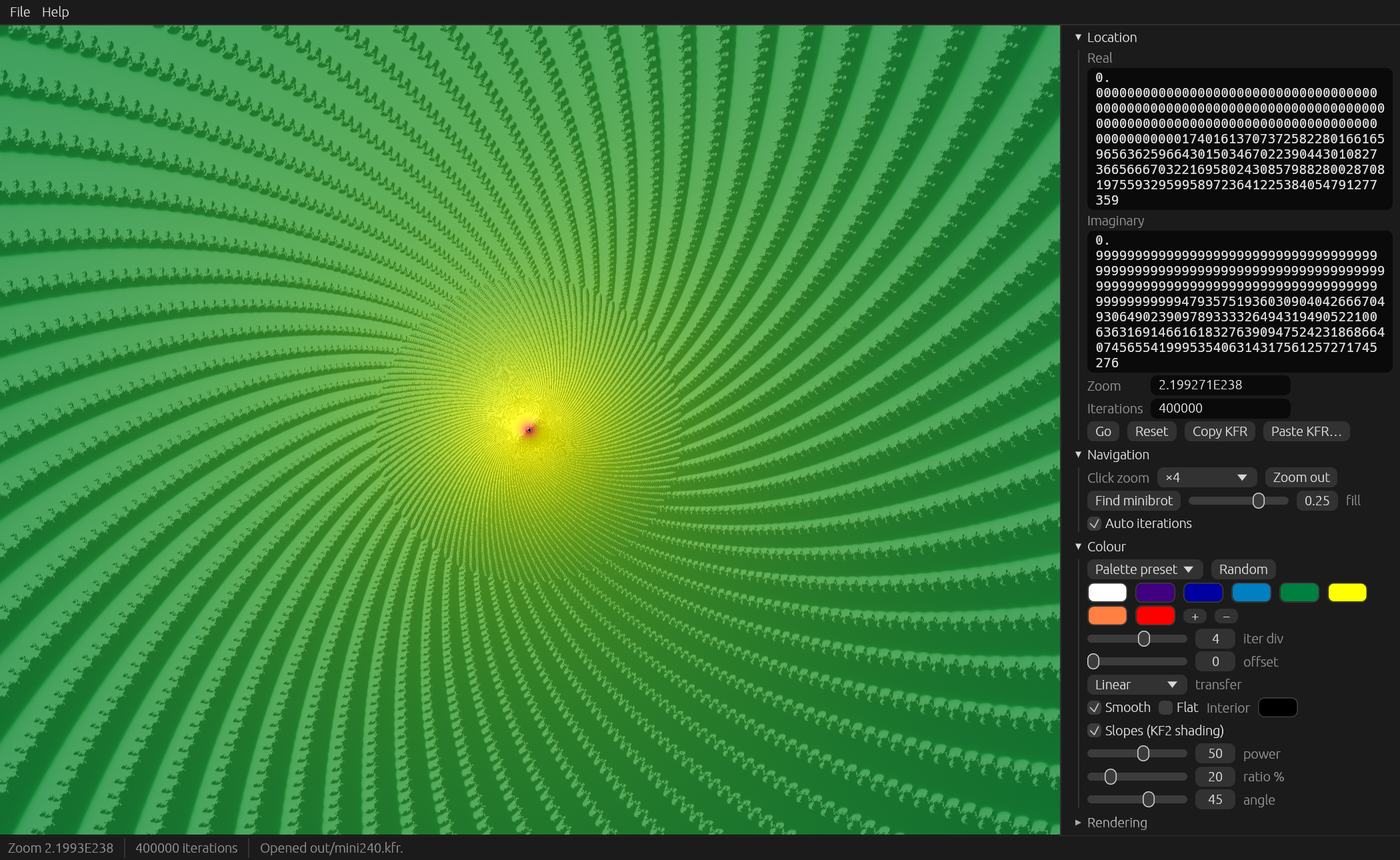
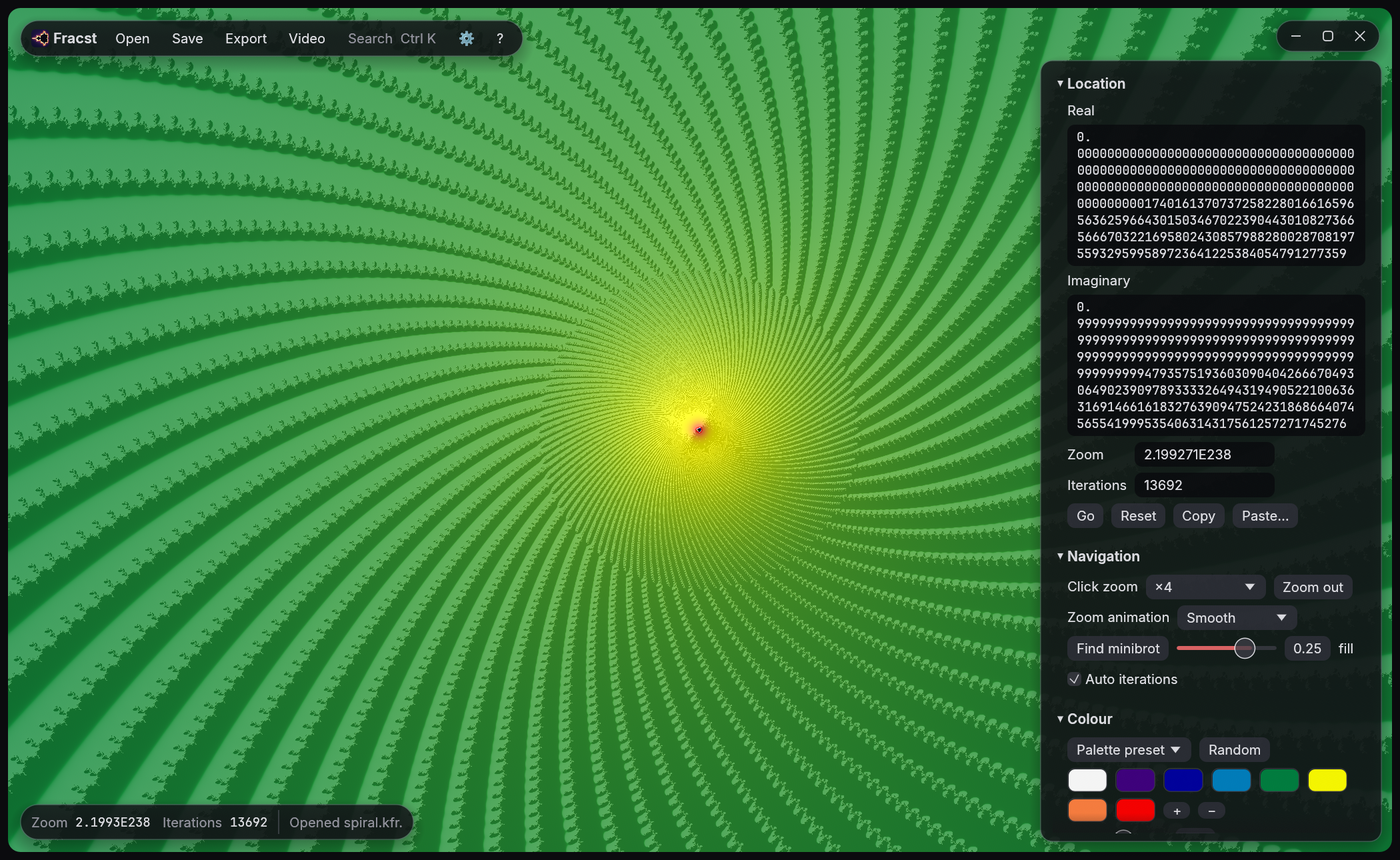
Docs: README and docs for the 0.4 interface, new screenshots, re-measured benchmarks

diff --git a/README.md b/README.md
@@ -5,7 +5,12 @@
 A fast deep-zoom Mandelbrot set explorer written in modern Rust, with
 automatic iteration limits and minibrot-aware references.
 
-- Zoom to 10^1000 and beyond, interactively.
+- Zoom to 10^1000 and beyond, interactively. Zooms glide into place, and
+  frames render in the background while the last one stays on screen.
+- A dark, frameless window where the image fills the screen, with a floating
+  toolbar and a settings card you can hide with Tab.
+- **Ctrl+K** searches everything the app does: actions, every setting,
+  recent locations and video projects.
 - Opens and saves `.kfr` location files, and embeds the location in saved
   PNGs so images can be reopened.
 - Palette colouring: 1024-entry palettes interpolated from key colours,
@@ -14,9 +19,19 @@ automatic iteration limits and minibrot-aware references.
 - Zoom videos from the app or the CLI: keyframes rendered here or on a remote
   GPU (resumable), smooth interpolation, a speed curve, animated colours and
   audio, encoded with ffmpeg (which fracst can download for you).
+- Rendering on a remote NVIDIA GPU (`fracst-server`, with a CUDA engine that
+  gives bit-identical frames), self-hosted or on Modal or fal.ai, and
+  shareable through a gateway with per-person keys.
 - CLI for batch renders and supersampling.
 
-![fracst exploring a spiral at zoom 2.2e238](assets/screenshot.png)
+![fracst exploring a spiral at zoom 2.2e238, with the settings card open](assets/screenshot.png)
+
+| | |
+|---|---|
+| ![A minibrot at zoom 1.5e400, with the settings card hidden](assets/screenshots/deep-minibrot.jpg) | ![The same minibrot with its render statistics: 22.9% interior, 208× fewer steps than iterations](assets/screenshots/statistics.jpg) |
+| A minibrot at zoom 1.5e400, with the settings hidden (Tab). | Its statistics: a 4M iteration limit found automatically, the reference on the minibrot's nucleus, 208 iterations skipped per step. |
+| ![The Ctrl+K palette filtered to "palette"](assets/screenshots/search.jpg) | ![The Make video window](assets/screenshots/video.jpg) |
+| **Ctrl+K**: switches and choices change in place. | **Make video…**: a zoom video into the current location. |
 
 ## Download
 
@@ -103,25 +118,25 @@ reliable even for deep minibrots.
 ## Benchmarks
 
 1920×1080, AMD Ryzen 7 8845HS (8 cores / 16 threads), `cargo run --release
--p fracst-core --example bench -- --baseline`. Times are the first render
-including the reference orbit, and vary by about ±30% between runs on this
-laptop (boost clocks and thermals).
+-p fracst-core --example bench -- --baseline`, v0.4.1. Times are the first
+render including the reference orbit, best of two runs. They vary by about
+±30% between runs on this laptop (boost clocks and thermals).
 
 | Location | Zoom | Avg iterations | fracst | Plain perturbation | Speedup |
 |---|---|---:|---:|---:|---:|
 | Overview | 1 | 11 | 0.03 s | 0.05 s | 2× |
-| Seahorse minibrot | 3e8 | 3,243 | 1.6 s | 1.8 s | 1.1× |
-| Spiral | 2e238 | 2,186 | 0.12 s | 1.2 s | 10× |
-| Spiral | 8e397 | 4,025 | 0.23 s | 16.9 s | 73× |
-| Spiral | 1e998 | 11,764 | 0.29 s | 45.0 s | 156× |
-| Inside a minibrot (21% interior, 1M max iterations) | 2e400 | 20,830 | 0.65 s | not run | — |
+| Seahorse minibrot | 3e8 | 3,243 | 1.7 s | 1.1 s | 0.65× |
+| Spiral | 2e238 | 2,186 | 0.08 s | 0.76 s | 10× |
+| Spiral | 8e397 | 4,025 | 0.14 s | 10.4 s | 75× |
+| Spiral | 1e998 | 11,764 | 0.19 s | 30.3 s | 160× |
+| Inside a minibrot (21% interior, 1M max iterations) | 2e400 | 20,830 | 0.40 s | not run | — |
 
 "Plain perturbation" is the same engine with BLA and interior detection
 turned off (one reference with rebasing, still with SIMD and FMA). It shows
 what the iteration skipping buys, and is not a comparison with another
-program. At shallow
-zooms such as the seahorse row, BLA cannot skip anything and fracst runs at
-plain perturbation speed.
+program. At shallow zooms such as the seahorse row, BLA cannot skip
+anything (3,242 steps for 3,243 iterations), so the BLA lookups and interior
+checks are pure overhead, and fracst is slower than plain perturbation there.
 
 `--export` writes every benchmark location to `bench-locations/*.kfr`, so
 you can render the same views again with other settings or later versions.
@@ -157,22 +172,37 @@ cargo run --release -p fracst [location.kfr | image.png]
 | Esc | Cancel the current render |
 | Tab | Show or hide the settings |
 | Ctrl+K | Search everything the app does: actions, every setting, video commands |
-| Ctrl+O / Ctrl+S / Ctrl+E | Open location, save `.kfr`, export PNG |
-| Drop a file | Open a `.kfr` or PNG with an embedded location |
+| Ctrl+O / Ctrl+S / Ctrl+E | Open a location or video project, save `.kfr`, export PNG |
+| Drop a file | Open a `.kfr`, a PNG with an embedded location, or a video project folder |
 
-The settings card on the right covers:
+On a Mac, use Cmd instead of Ctrl.
 
-- **Location**: arbitrary-precision coordinates, plus copy and paste as `.kfr` text.
-- **Find minibrot**: Newton's method.
-- **Auto iterations**.
-- **Colouring**: palette presets, a random palette, editable key colours,
-  `IterDiv`, offset, transfer function, slopes and interior colour.
-- **Rendering**: resolution scale, BLA, interior detection, reference snapping,
-  bailout and reference reuse.
-- **Export**: any size with supersampling, and **Make video…** (see below).
+The image fills the window. A floating toolbar at the top left holds
+**Open**, **Save**, **Export**, the **Video** menu, **Search**, the settings
+switch (⚙, or Tab) and the controls (**?**). Drag the wordmark to move the
+window. The bar at the bottom shows the zoom, the iteration limit, render
+progress and messages.
+
+The settings card on the right has these sections:
+
+- **Location**: arbitrary-precision coordinates, zoom and iteration limit,
+  **Go**, **Reset**, and **Copy** and **Paste…** as `.kfr` text.
+- **Navigation**: the click zoom (×2 to ×32), **Zoom out**, the zoom
+  animation, **Find minibrot** with how large to frame it, and **Auto
+  iterations**.
+- **Colour**: palette presets, a random palette, editable key colours,
+  `IterDiv`, offset, transfer function, smooth or flat colouring, interior
+  colour, and slope shading (power, ratio, angle).
+- **Rendering**: resolution scale, **Render only a region** (a small centred
+  part of the view, for slow deep locations), BLA and its precision, bailout,
+  SIMD, interior detection, reference snapping and reuse, and the direction
+  of the imaginary axis.
 - **Remote GPU**: render on a `fracst-server`, such as a cloud GPU (see below).
-- **Statistics**: per-stage timings, BLA skip factor and iteration range.
-- **App**: the startup update check, and the controls.
+- **Export**: a PNG of any size with supersampling, and **Make video…** (see below).
+- **Statistics**: the frame's timings by stage, the iteration limit and how
+  many passes it took, the nearby minibrot's period, the reference orbit,
+  precision, BLA skip factor, iteration range, and the share of interior pixels.
+- **App**: the startup update check, the controls, and the version.
 
 **Ctrl+K** (or **Search** in the toolbar) lists everything fracst can do.
 Type a few letters of a name: actions run at once, switches and choices such
@@ -184,7 +214,8 @@ and video projects used are there too.
 Zooms glide into place (**Navigation → Zoom animation**: Quick, Smooth, Slow
 or Off), and jumps such as opening a file or finding a minibrot cross-fade.
 While a frame renders, the previous one is shown stretched to the new view.
-Slow frames get a quarter-resolution preview first.
+While the mouse wheel turns, the image is only scaled, and the next frame
+starts once the wheel stops. Slow frames get a quarter-resolution preview first.
 
 ### Command line (`fracst-cli`)
 
@@ -206,8 +237,9 @@ fracst-cli deep.kfr --zoom-out 500 --zoom-out-factor 2 -o frames/zoom.png
 
 ### Zoom videos
 
-**Make video…** (under Export, or in the toolbar's Video menu) sets up a video from the
-whole set into the current location. fracst renders one *keyframe* per
+**Video → Make video…** in the toolbar (or under Export, or Ctrl+K) sets up a
+video from the whole set into the current location. **Video → Open video
+project…** reopens one, and opening it moves the explorer to its location. fracst renders one *keyframe* per
 doubling of the zoom, from the location outwards, here or on the remote GPU,
 in the background while you keep exploring. Each keyframe is saved to a
 project folder as soon as it is done, so a job can pause, crash or be cut off
@@ -283,14 +315,26 @@ Not supported yet:
 The icon is rendered by fracst itself:
 `cargo run --release -p fracst-core --example icon` regenerates `assets/icon.*`.
 
+The screenshots are taken by the app itself. With `FRACST_SCREENSHOT=out.png`
+it saves its own window once the render settles, then exits.
+`FRACST_SCREENSHOT_RUN` runs palette entries first, by key (for example
+`panel`, `make-video` or `focus:statistics`, separated by `;`), and
+`FRACST_SCREENSHOT_SEARCH` opens the palette with a query. Point `APPDATA`
+(Windows) or `XDG_CONFIG_HOME` (Linux) at an empty folder so saved settings,
+recent files and remote keys stay out of the picture.
+
 ## Project layout
 
 ```
 crates/fracst-core   engine: fixed.rs (bignum), floatexp.rs + num.rs (extended range),
-                     reference.rs, bla.rs, perturb.rs, render.rs, newton.rs,
-                     colour.rs, kfr.rs, image.rs
-crates/fracst-cli    command-line renderer
-crates/fracst        egui explorer (render thread in worker.rs)
+                     view.rs, reference.rs, bla.rs, perturb.rs, render.rs, newton.rs,
+                     colour.rs, kfr.rs, image.rs; examples bench, deepbench and icon
+crates/fracst-cli    command-line renderer, and fracst-cli video
+crates/fracst        egui explorer: app.rs (canvas, toolbar, settings card),
+                     app/commands.rs (every action, for the toolbar, keys and palette),
+                     search.rs (the Ctrl+K palette), glide.rs (zoom animation),
+                     theme.rs, window.rs (frameless window), video.rs (Make video),
+                     worker.rs (render thread), prefs.rs, remote_config.rs, update.rs
 crates/fracst-cuda   CUDA pixel engine: kernel/fracst.cuh (the pixel loop, also
                      compiled for the host in tests), NVRTC compilation, check.rs
 crates/fracst-remote remote protocol, lossless frame compression, client
@@ -299,6 +343,8 @@ crates/fracst-video  zoom videos: projects, keyframes, compositing, timeline, ff
 deploy/fal           container image for fracst-server, and the fal.ai app
 deploy/modal         the Modal app
 gateway              Cloudflare Worker: fracst keys, usage limits, relay to the GPU
+packaging            Windows installer (Inno Setup), Linux desktop entry and install.sh
+docs                 performance log, remote rendering, zoom videos
 ```
 
 ## Roadmap

diff --git a/docs/prompts/mobile-app.md b/docs/prompts/mobile-app.md
@@ -2,9 +2,9 @@
 
 You are working in the fracst repository (Rust, Cargo workspace), on Windows 11.
 fracst is a deep-zoom Mandelbrot explorer. It already renders on a cloud GPU:
-a CUDA engine runs inside `fracst-server` on fal.ai, and a Cloudflare Worker
-(`gateway/`) lets people connect with their own revocable fracst keys
-(`fst_…`), keeping the fal key secret.
+a CUDA engine runs inside `fracst-server` on Modal or fal.ai, and a
+Cloudflare Worker (`gateway/`) lets people connect with their own revocable
+fracst keys (`fst_…`), keeping the Modal or fal token secret.
 
 Build a mobile app with Expo and TypeScript that explores the Mandelbrot set
 through that gateway. The phone does no fractal maths beyond exact view
@@ -27,7 +27,7 @@ protocol, the gateway and how everything is tested.
 - **Plan, then build in phases.** Plan before coding. After each phase,
   verify it (tests, type checks, a real run) before moving on. At the end,
   report what you verified and what you could not (for example iOS without a
-  Mac, or the real fal deployment). Don't claim anything you didn't run.
+  Mac, or the real Modal or fal deployment). Don't claim anything you didn't run.
 - **Use current APIs.** Expo moves fast. Use `npx expo install <pkg>` for
   every Expo-ecosystem package, so versions match the SDK. Check
   `npx expo install --check` and `npx expo-doctor@latest`. Check current
@@ -42,7 +42,7 @@ protocol, the gateway and how everything is tested.
   (`adb exec-out screencap -p`, `xcrun simctl io booted screenshot`), or the
   browser page for web. Never capture the host desktop. The desktop app has
   its own hook (`FRACST_SCREENSHOT=path`).
-- **Money.** Connecting to the real gateway or fal app starts a paid GPU.
+- **Money.** Connecting to the real gateway, Modal or fal app starts a paid GPU.
   Develop against the local stack below, and ask before touching anything
   deployed.
 - **Style.** Match the existing code. Rust: rustfmt with `rustfmt.toml`,
@@ -60,16 +60,19 @@ protocol, the gateway and how everything is tested.
 | `crates/fracst-server` | WebSocket server (`lib.rs`) and its end-to-end tests (`tests/end_to_end.rs`) |
 | `crates/fracst` | Desktop app (egui). `worker.rs` shows the render, preview and remote logic to mirror. `app.rs` shows auto-iteration handling (start the next frame from `stats.suggested_maxiter`) |
 | `gateway/` | Cloudflare Worker: `src/index.ts` (routes, key checks, admin), `src/session.ts` (per-connection Durable Object relaying to the GPU), `src/registry.ts` (keys, usage, limits), `scripts/keys.mjs`, `test/smoke.mjs` |
-| `deploy/fal/` | fal app and Dockerfile for the GPU server |
+| `deploy/modal/`, `deploy/fal/` | The Modal and fal apps, and the Dockerfile for the GPU server |
 
 **Protocol today.** JSON text messages over a WebSocket, tagged by `"type"`
 in snake_case.
 
 - **Client → server:**
-  - `render {id, view, settings}`. A newer render cancels the one in flight.
+  - `render {id, view, settings, queue?}`. A newer render cancels the one in
+    flight, unless it is sent with `"queue": true` to a server that lists the
+    `queue` feature: then it waits its turn and frames come back in order.
   - `cancel {id}`.
 - **Server → client:**
-  - `hello {protocol, version, engine}`. A gateway may send `status {message}`
+  - `hello {protocol, version, engine, features}`, where `features` (possibly
+    absent) lists optional abilities such as `queue`. A gateway may send `status {message}`
     first, while a GPU starts.
   - `keepalive` every 30 s. Ignore it.
   - `progress {id, stage, fraction}`.
@@ -143,8 +146,8 @@ this as an optional extension, so existing clients keep working.
    and the view and settings that made it. If a request's view and settings
    equal the cached ones and only `image` differs, skip rendering: recolour
    and encode. This makes palette editing on the phone feel local.
-5. **Capabilities.** `hello` gains `"features": ["image", "recolour"]`
-   (`#[serde(default)]`). The app refuses servers without `image`. Keep
+5. **Capabilities.** `hello`'s `features` gains `"image"` and `"recolour"`
+   (next to `"queue"`). The app refuses servers without `image`. Keep
    `PROTOCOL = 1`, since the change is additive.
 6. **Subprotocols.** If a client offers the subprotocol `fracst.v1`, select
    it in the handshake response. Also accept the server token as a

diff --git a/docs/video.md b/docs/video.md
@@ -3,8 +3,18 @@
 A zoom video in fracst starts at the whole set and ends at a location. It is
 made in two stages. **Keyframes** are rendered once, which is slow. They are
 then **composited and encoded** into the video, which is fast and can be
-repeated with other colours, timing or music. Both the app (**Make video…**)
-and `fracst-cli video` do this, with the same code (`crates/fracst-video`).
+repeated with other colours, timing or music. Both the app and
+`fracst-cli video` do this, with the same code (`crates/fracst-video`).
+
+![The Video window for a new project](../assets/screenshots/video.jpg)
+
+In the app, **Video → Make video…** in the toolbar (also under **Export**,
+or Ctrl+K and "video") opens the Video window for the location on screen.
+The project folder is chosen when rendering starts. **Video → Open video
+project…**, **Open** (Ctrl+O) or dropping the folder on the window reopens a
+project, and the last ones used are in the Ctrl+K palette. Rendering and
+encoding run in the background while you keep exploring, and the window's
+commands (render, pause, estimate, encode) are in the palette too.
 
 ## Keyframes
 
@@ -83,8 +93,10 @@ alike. Shading each layer at its own scale showed as visible rectangles.
 | Good | 1.5× | 2×2 | Up to 1.33× |
 | Best | 2× | 3×3 | Never magnified |
 
-The keyframe size and zoom factor are fixed once a keyframe is rendered.
-Start a new project to change them.
+The keyframe size and zoom factor are fixed once a keyframe is rendered, so
+the app greys out the video size and quality then. Start a new project to
+change them. The app's size presets are 720p, 1080p, 1440p, 4K, Square 1080
+and Vertical 1080.
 
 ## Timing
 
@@ -108,7 +120,8 @@ offset, transfer function, slopes). On top of that:
   `IterDiv`, and slope power, ratio and angle. Each field is eased
   separately between the keys that set it. `IterDiv` changes by ratio, so it
   moves evenly across orders of magnitude. In the app, **Add key from current
-  colours** takes the explorer's colours at the preview's time.
+  colours** takes the explorer's colours at the preview's time, and a key's
+  **Set to current** replaces its colours with the explorer's.
 
 Opening a project in the app moves the explorer to its location, so its
 colours can be tuned there.

diff --git a/docs/remote.md b/docs/remote.md
@@ -37,6 +37,9 @@ without fal) on Modal, which exposes `fracst-server`'s WebSocket directly:
 wss://<workspace>--fracst.modal.run
 ```
 
+`modal deploy` prints the exact address; it may include a region, as in
+`wss://<workspace>--fracst.us-east.modal.run`.
+
 Modal checks a proxy auth token before anything starts, so nobody else can
 wake a GPU. Create one under Settings → Proxy Auth Tokens; it has an id
 (`wk-…`) and a secret (`ws-…`). In the app's **Key** field, give it as
@@ -100,8 +103,9 @@ from the Actions tab (it takes the machine types as an input), or push a
 
 ### Connect
 
-In the app, open **Remote GPU**, paste the stream address and your fal key,
-and press **Connect**. Rendering continues locally until the GPU is ready.
+In the app, open the **Remote GPU** section of the settings card (Tab shows
+the card), paste the stream address and your fal key, and press **Connect**
+(or Ctrl+K, "connect"). Rendering continues locally until the GPU is ready.
 A runner that was idle takes a minute or two to start. From then on, the
 panel shows which GPU renders, and **Statistics** shows each frame's round
 trip next to the server's own time. If the connection drops, the app goes

diff --git a/docs/performance.md b/docs/performance.md
@@ -1,7 +1,8 @@
 # Performance experiments
 
-This is a log of the speed hypotheses tried on the pixel loop, how they were
-measured, and what was kept. Each hypothesis was developed on its own branch
+This is a log of the speed hypotheses tried on the CPU pixel loop, how they
+were measured, and what was kept. The CUDA engine (`fracst-cuda`) is a
+line-by-line port of the loop described here; see [remote.md](remote.md). Each hypothesis was developed on its own branch
 in its own git worktree, then measured against the same baseline.
 
 ## Method
